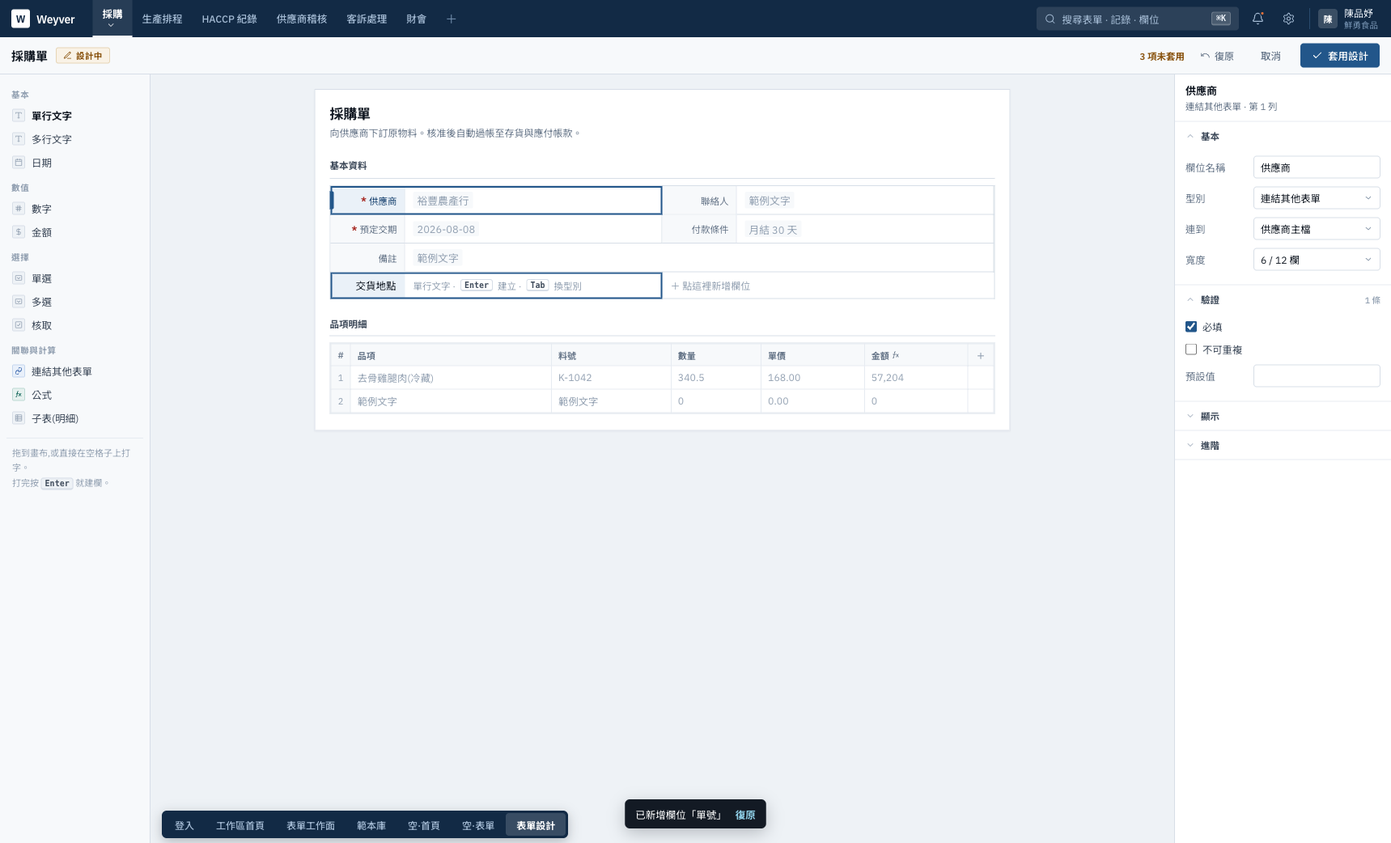
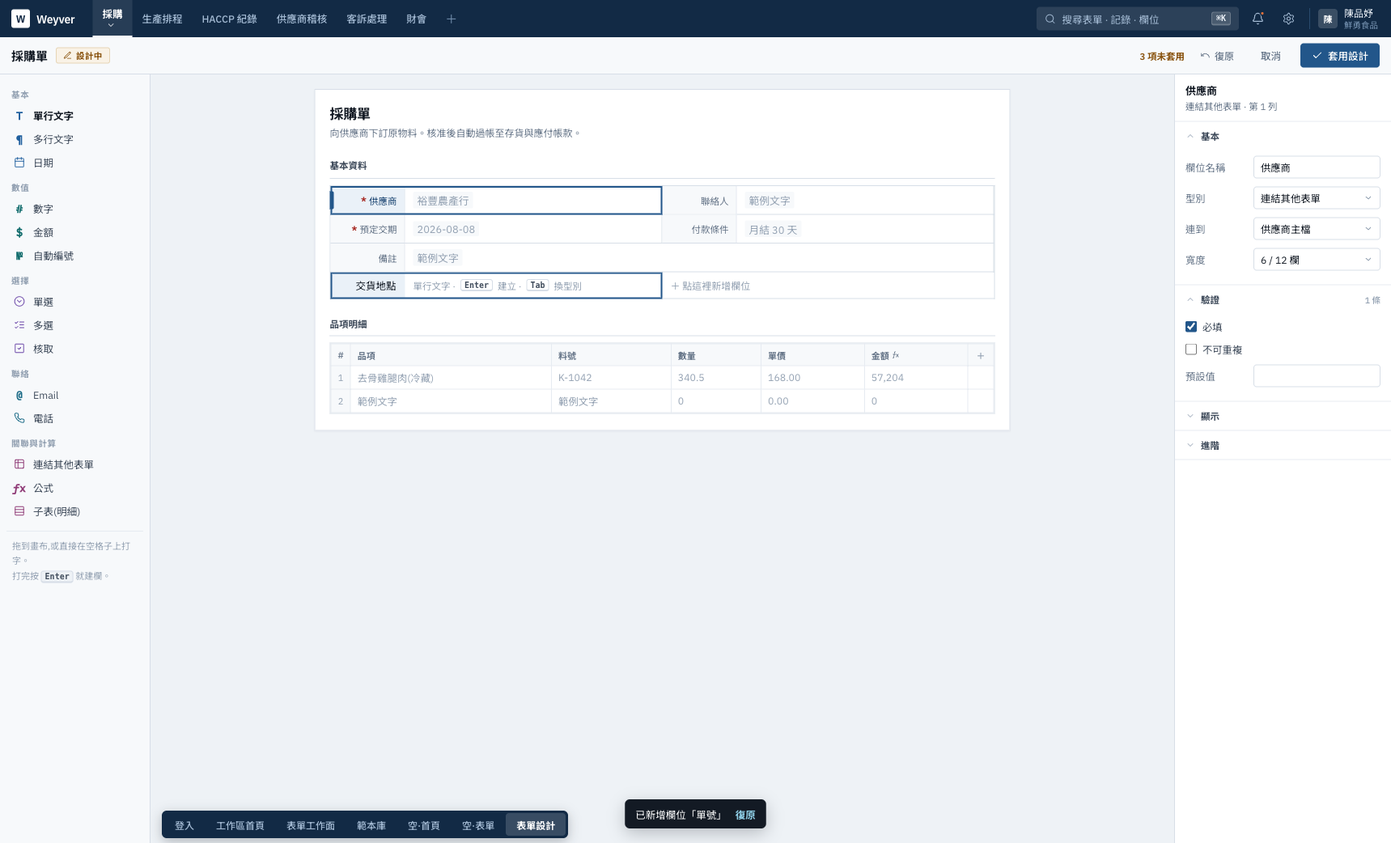
docs(design): 型別圖示定案 E = B+D 混合,並實測剔除不可讀的字符
決策方選 B+D 混合。對照頁加第五欄 E 並標為選定案,設計器面板已套用。

**E 的關鍵不是「混用」,是讓混用不再是混用**:
有天然字符的用字符、其餘用象形,**但兩者都吃分組色、同尺寸**。
D 單獨看是「兩套系統混用」(§3.3 的舊感來源),
而一旦共用同一組分組色與同一個字級,**它就不是兩套系統,是同一套系統的兩種字身** ——
就像一份排版裡同時有數字與文字,沒有人會說那是混用。

🔴 **字符化有前提條件,而且是實測出來的**:
字體要有那個字符,**而且小尺寸下要可讀**。
`№`(自動編號)在 13.5px 的 IBM Plex Mono 下**糊成一塊不可讀** ——
截圖放大 2.6 倍才看見,肉眼在原尺寸只覺得「怪」。
已改回象形 list-ordered(語意上也更貼切:自動編號 = 有序序列)。
最終字符 6 個:T ¶ # $ @ ƒx。

→ 這條補進「字符化」的判準:**不是「有這個字符」就好,是「有 且 小尺寸可讀」**。
   而驗證方式只有一個 —— 在真實尺寸渲染出來,放大截圖看。

Changed region(s): [[0.0, 0.2457, 0.0925, 0.6142], [0.0, 0.1228, 0.0617, 0.215], [0.0, 0.6449, 0.0925, 0.7063]]

diff --git a/docs/mockups/_icon-compare.html b/docs/mockups/_icon-compare.html
@@ -2,11 +2,11 @@
 <html lang="zh-Hant-TW">
 <head>
 <meta charset="UTF-8">
-<title>Weyver · 型別圖示四案對照</title>
+<title>Weyver · 型別圖示五案對照</title>
 <link href="https://fonts.googleapis.com/css2?family=IBM+Plex+Sans:wght@400;500;600;700&family=IBM+Plex+Sans+TC:wght@400;500;600;700&family=IBM+Plex+Mono:wght@500;600&display=swap" rel="stylesheet">
 <style>
 /* ══════════════════════════════════════════════════════════════════════════
-   型別圖示四案對照(2026-08-08)
+   型別圖示五案對照(2026-08-08)
 
    起因:決策方問「表單設計的 icon 有沒有豐富視覺、色彩的元件庫」。
 
@@ -31,7 +31,9 @@
    C Duotone     描邊 + 同色低透明填底。⚠ **這是用 Lucide 模擬 Phosphor 的 duotone
                  「技法」,不是真的 Phosphor 字形** —— Phosphor 未安裝,不為了對照加相依。
                  真要採用得換掉整套 1500+ 圖示。
-   D 字符化      有現成字符的用字符(T ¶ # $ № @ ƒx),沒有的才用象形。
+   D 字符化      有現成字符的用字符(T ¶ # $ @ ƒx),沒有的才用象形。
+                 ⚠ **`№` 實測在 13.5px 下糊成一塊不可讀,已剔除** ——
+                 字符化的前提是「字體有 **且** 小尺寸可讀」,不是「有這個字符」就好。
                  🔴 **這是今天研究本身冒出來的**:NocoDB 實測就是字符與象形混用,
                  而字符在小尺寸比象形清楚得多。
    ══════════════════════════════════════════════════════════════════════════ */
@@ -57,7 +59,14 @@ td{padding:5px 10px;border-bottom:1px solid var(--line-2);}
 tr.gh td{background:var(--paper-2);font-size:10.5px;font-weight:700;letter-spacing:.06em;
   color:var(--ink-4);text-transform:uppercase;padding:7px 10px;}
 td.lb{font-size:12.5px;color:var(--ink-2);width:150px;}
-th:not(:first-child),td:not(.lb){width:110px;}
+th:not(:first-child),td:not(.lb){width:96px;}
+/* 選定案標出來 —— 對照表最後要能一眼看到「所以是哪一個」 */
+th.pick,td.pick{background:#f4f9ff;}
+th.pick{border-bottom:2px solid var(--brand);}
+.ctx .p.pick{border-color:var(--brand);box-shadow:inset 0 2px 0 var(--brand);}
+.ctx .p.pick .t{background:var(--brand-t);color:var(--brand);}
+/* E:字符與象形**同尺寸同色**,才叫同一套系統的兩種字身 */
+.ic.e.gl{font-family:'IBM Plex Mono',monospace;font-size:13.5px;font-weight:600;}
 
 /* 全部渲染在 **14px**,這是設計器面板裡的真實尺寸 —— 對照必須在真實尺寸下看,
    放大看每一案都好看,那不是對照是自我安慰。 */
@@ -72,7 +81,7 @@ th:not(:first-child),td:not(.lb){width:110px;}
 .ic.gl.px{color:var(--ink-4);}
 
 /* 真實脈絡:放進面板列裡看,不是看色票 */
-.ctx{margin-top:26px;display:grid;grid-template-columns:repeat(4,1fr);gap:12px;}
+.ctx{margin-top:26px;display:grid;grid-template-columns:repeat(5,1fr);gap:10px;}
 .ctx .p{border:1px solid var(--line);background:var(--paper);}
 .ctx .p .t{padding:7px 10px;border-bottom:1px solid var(--line-2);background:var(--paper-2);
   font-size:11px;font-weight:700;color:var(--ink-2);}
@@ -89,7 +98,7 @@ th:not(:first-child),td:not(.lb){width:110px;}
 </head>
 <body>
 <div class="wrap">
-  <h1>型別圖示 · 四案對照</h1>
+  <h1>型別圖示 · 五案對照</h1>
   <div class="lead">
     全部渲染在 <b>14px</b> —— 這是設計器面板裡的真實尺寸。
     <b>對照必須在真實尺寸下看</b>,放大看每一案都好看,那不是對照是自我安慰。<br>
@@ -103,15 +112,17 @@ th:not(:first-child),td:not(.lb){width:110px;}
       <th>B 分組上色<small>依型別分組給色,不是每個一色</small></th>
       <th>C Duotone<small>⚠ 用 Lucide 模擬技法,非真 Phosphor</small></th>
       <th>D 字符化<small>有字符用字符,沒有才用象形</small></th>
+      <th class="pick">E · B+D 混合<small>🔴 決策方選定。字符與象形<b>都吃分組色</b></small></th>
     </tr></thead>
     <tbody>
-<tr class="gh"><td colspan="5">基本</td></tr>
+<tr class="gh"><td colspan="6">基本</td></tr>
 <tr>
       <td class="lb">單行文字</td>
       <td><span class="ic a"><svg viewBox="0 0 24 24" fill="none" stroke="currentColor" stroke-width="2" stroke-linecap="round" stroke-linejoin="round"><polyline points="4 7 4 4 20 4 20 7"/><line x1="9" x2="15" y1="20" y2="20"/><line x1="12" x2="12" y1="4" y2="20"/></svg></span></td>
       <td><span class="ic b" style="color:var(--c1)"><svg viewBox="0 0 24 24" fill="none" stroke="currentColor" stroke-width="2" stroke-linecap="round" stroke-linejoin="round"><polyline points="4 7 4 4 20 4 20 7"/><line x1="9" x2="15" y1="20" y2="20"/><line x1="12" x2="12" y1="4" y2="20"/></svg></span></td>
       <td><span class="ic c" style="--tc:var(--c1)"><span class="duo"></span><svg viewBox="0 0 24 24" fill="none" stroke="currentColor" stroke-width="2" stroke-linecap="round" stroke-linejoin="round"><polyline points="4 7 4 4 20 4 20 7"/><line x1="9" x2="15" y1="20" y2="20"/><line x1="12" x2="12" y1="4" y2="20"/></svg></span></td>
       <td><span class="ic gl">T</span></td>
+      <td class="pick"><span class="ic e gl" style="color:var(--c1)">T</span></td>
     </tr>
 <tr>
       <td class="lb">多行文字</td>
@@ -119,6 +130,7 @@ th:not(:first-child),td:not(.lb){width:110px;}
       <td><span class="ic b" style="color:var(--c1)"><svg viewBox="0 0 24 24" fill="none" stroke="currentColor" stroke-width="2" stroke-linecap="round" stroke-linejoin="round"><path d="M15 12H3"/><path d="M17 18H3"/><path d="M21 6H3"/></svg></span></td>
       <td><span class="ic c" style="--tc:var(--c1)"><span class="duo"></span><svg viewBox="0 0 24 24" fill="none" stroke="currentColor" stroke-width="2" stroke-linecap="round" stroke-linejoin="round"><path d="M15 12H3"/><path d="M17 18H3"/><path d="M21 6H3"/></svg></span></td>
       <td><span class="ic gl">¶</span></td>
+      <td class="pick"><span class="ic e gl" style="color:var(--c1)">¶</span></td>
     </tr>
 <tr>
       <td class="lb">日期</td>
@@ -126,6 +138,7 @@ th:not(:first-child),td:not(.lb){width:110px;}
       <td><span class="ic b" style="color:var(--c1)"><svg viewBox="0 0 24 24" fill="none" stroke="currentColor" stroke-width="2" stroke-linecap="round" stroke-linejoin="round"><path d="M8 2v4"/><path d="M16 2v4"/><rect width="18" height="18" x="3" y="4" rx="2"/><path d="M3 10h18"/></svg></span></td>
       <td><span class="ic c" style="--tc:var(--c1)"><span class="duo"></span><svg viewBox="0 0 24 24" fill="none" stroke="currentColor" stroke-width="2" stroke-linecap="round" stroke-linejoin="round"><path d="M8 2v4"/><path d="M16 2v4"/><rect width="18" height="18" x="3" y="4" rx="2"/><path d="M3 10h18"/></svg></span></td>
       <td><span class="ic gl px"><svg viewBox="0 0 24 24" fill="none" stroke="currentColor" stroke-width="2" stroke-linecap="round" stroke-linejoin="round"><path d="M8 2v4"/><path d="M16 2v4"/><rect width="18" height="18" x="3" y="4" rx="2"/><path d="M3 10h18"/></svg></span></td>
+      <td class="pick"><span class="ic e" style="color:var(--c1)"><svg viewBox="0 0 24 24" fill="none" stroke="currentColor" stroke-width="2" stroke-linecap="round" stroke-linejoin="round"><path d="M8 2v4"/><path d="M16 2v4"/><rect width="18" height="18" x="3" y="4" rx="2"/><path d="M3 10h18"/></svg></span></td>
     </tr>
 <tr>
       <td class="lb">日期時間</td>
@@ -133,14 +146,16 @@ th:not(:first-child),td:not(.lb){width:110px;}
       <td><span class="ic b" style="color:var(--c1)"><svg viewBox="0 0 24 24" fill="none" stroke="currentColor" stroke-width="2" stroke-linecap="round" stroke-linejoin="round"><path d="M21 7.5V6a2 2 0 0 0-2-2H5a2 2 0 0 0-2 2v14a2 2 0 0 0 2 2h3.5"/><path d="M16 2v4"/><path d="M8 2v4"/><path d="M3 10h5"/><path d="M17.5 17.5 16 16.3V14"/><circle cx="16" cy="16" r="6"/></svg></span></td>
       <td><span class="ic c" style="--tc:var(--c1)"><span class="duo"></span><svg viewBox="0 0 24 24" fill="none" stroke="currentColor" stroke-width="2" stroke-linecap="round" stroke-linejoin="round"><path d="M21 7.5V6a2 2 0 0 0-2-2H5a2 2 0 0 0-2 2v14a2 2 0 0 0 2 2h3.5"/><path d="M16 2v4"/><path d="M8 2v4"/><path d="M3 10h5"/><path d="M17.5 17.5 16 16.3V14"/><circle cx="16" cy="16" r="6"/></svg></span></td>
       <td><span class="ic gl px"><svg viewBox="0 0 24 24" fill="none" stroke="currentColor" stroke-width="2" stroke-linecap="round" stroke-linejoin="round"><path d="M21 7.5V6a2 2 0 0 0-2-2H5a2 2 0 0 0-2 2v14a2 2 0 0 0 2 2h3.5"/><path d="M16 2v4"/><path d="M8 2v4"/><path d="M3 10h5"/><path d="M17.5 17.5 16 16.3V14"/><circle cx="16" cy="16" r="6"/></svg></span></td>
+      <td class="pick"><span class="ic e" style="color:var(--c1)"><svg viewBox="0 0 24 24" fill="none" stroke="currentColor" stroke-width="2" stroke-linecap="round" stroke-linejoin="round"><path d="M21 7.5V6a2 2 0 0 0-2-2H5a2 2 0 0 0-2 2v14a2 2 0 0 0 2 2h3.5"/><path d="M16 2v4"/><path d="M8 2v4"/><path d="M3 10h5"/><path d="M17.5 17.5 16 16.3V14"/><circle cx="16" cy="16" r="6"/></svg></span></td>
     </tr>
-<tr class="gh"><td colspan="5">數值</td></tr>
+<tr class="gh"><td colspan="6">數值</td></tr>
 <tr>
       <td class="lb">數字</td>
       <td><span class="ic a"><svg viewBox="0 0 24 24" fill="none" stroke="currentColor" stroke-width="2" stroke-linecap="round" stroke-linejoin="round"><line x1="4" x2="20" y1="9" y2="9"/><line x1="4" x2="20" y1="15" y2="15"/><line x1="10" x2="8" y1="3" y2="21"/><line x1="16" x2="14" y1="3" y2="21"/></svg></span></td>
       <td><span class="ic b" style="color:var(--c5)"><svg viewBox="0 0 24 24" fill="none" stroke="currentColor" stroke-width="2" stroke-linecap="round" stroke-linejoin="round"><line x1="4" x2="20" y1="9" y2="9"/><line x1="4" x2="20" y1="15" y2="15"/><line x1="10" x2="8" y1="3" y2="21"/><line x1="16" x2="14" y1="3" y2="21"/></svg></span></td>
       <td><span class="ic c" style="--tc:var(--c5)"><span class="duo"></span><svg viewBox="0 0 24 24" fill="none" stroke="currentColor" stroke-width="2" stroke-linecap="round" stroke-linejoin="round"><line x1="4" x2="20" y1="9" y2="9"/><line x1="4" x2="20" y1="15" y2="15"/><line x1="10" x2="8" y1="3" y2="21"/><line x1="16" x2="14" y1="3" y2="21"/></svg></span></td>
       <td><span class="ic gl">#</span></td>
+      <td class="pick"><span class="ic e gl" style="color:var(--c5)">#</span></td>
     </tr>
 <tr>
       <td class="lb">金額</td>
@@ -148,21 +163,24 @@ th:not(:first-child),td:not(.lb){width:110px;}
       <td><span class="ic b" style="color:var(--c5)"><svg viewBox="0 0 24 24" fill="none" stroke="currentColor" stroke-width="2" stroke-linecap="round" stroke-linejoin="round"><line x1="12" x2="12" y1="2" y2="22"/><path d="M17 5H9.5a3.5 3.5 0 0 0 0 7h5a3.5 3.5 0 0 1 0 7H6"/></svg></span></td>
       <td><span class="ic c" style="--tc:var(--c5)"><span class="duo"></span><svg viewBox="0 0 24 24" fill="none" stroke="currentColor" stroke-width="2" stroke-linecap="round" stroke-linejoin="round"><line x1="12" x2="12" y1="2" y2="22"/><path d="M17 5H9.5a3.5 3.5 0 0 0 0 7h5a3.5 3.5 0 0 1 0 7H6"/></svg></span></td>
       <td><span class="ic gl">$</span></td>
+      <td class="pick"><span class="ic e gl" style="color:var(--c5)">$</span></td>
     </tr>
 <tr>
       <td class="lb">自動編號</td>
       <td><span class="ic a"><svg viewBox="0 0 24 24" fill="none" stroke="currentColor" stroke-width="2" stroke-linecap="round" stroke-linejoin="round"><rect x="14" y="14" width="4" height="6" rx="2"/><rect x="6" y="4" width="4" height="6" rx="2"/><path d="M6 20h4"/><path d="M14 10h4"/><path d="M6 14h2v6"/><path d="M14 4h2v6"/></svg></span></td>
       <td><span class="ic b" style="color:var(--c5)"><svg viewBox="0 0 24 24" fill="none" stroke="currentColor" stroke-width="2" stroke-linecap="round" stroke-linejoin="round"><rect x="14" y="14" width="4" height="6" rx="2"/><rect x="6" y="4" width="4" height="6" rx="2"/><path d="M6 20h4"/><path d="M14 10h4"/><path d="M6 14h2v6"/><path d="M14 4h2v6"/></svg></span></td>
       <td><span class="ic c" style="--tc:var(--c5)"><span class="duo"></span><svg viewBox="0 0 24 24" fill="none" stroke="currentColor" stroke-width="2" stroke-linecap="round" stroke-linejoin="round"><rect x="14" y="14" width="4" height="6" rx="2"/><rect x="6" y="4" width="4" height="6" rx="2"/><path d="M6 20h4"/><path d="M14 10h4"/><path d="M6 14h2v6"/><path d="M14 4h2v6"/></svg></span></td>
-      <td><span class="ic gl">№</span></td>
+      <td><span class="ic gl px"><svg viewBox="0 0 24 24" fill="none" stroke="currentColor" stroke-width="2" stroke-linecap="round" stroke-linejoin="round"><path d="M10 12h11"/><path d="M10 18h11"/><path d="M10 6h11"/><path d="M4 10h2"/><path d="M4 6h1v4"/><path d="M6 18H4c0-1 2-2 2-3s-1-1.5-2-1"/></svg></span></td>
+      <td class="pick"><span class="ic e" style="color:var(--c5)"><svg viewBox="0 0 24 24" fill="none" stroke="currentColor" stroke-width="2" stroke-linecap="round" stroke-linejoin="round"><path d="M10 12h11"/><path d="M10 18h11"/><path d="M10 6h11"/><path d="M4 10h2"/><path d="M4 6h1v4"/><path d="M6 18H4c0-1 2-2 2-3s-1-1.5-2-1"/></svg></span></td>
     </tr>
-<tr class="gh"><td colspan="5">選擇</td></tr>
+<tr class="gh"><td colspan="6">選擇</td></tr>
 <tr>
       <td class="lb">單選</td>
       <td><span class="ic a"><svg viewBox="0 0 24 24" fill="none" stroke="currentColor" stroke-width="2" stroke-linecap="round" stroke-linejoin="round"><circle cx="12" cy="12" r="10"/><path d="m16 10-4 4-4-4"/></svg></span></td>
       <td><span class="ic b" style="color:var(--c3)"><svg viewBox="0 0 24 24" fill="none" stroke="currentColor" stroke-width="2" stroke-linecap="round" stroke-linejoin="round"><circle cx="12" cy="12" r="10"/><path d="m16 10-4 4-4-4"/></svg></span></td>
       <td><span class="ic c" style="--tc:var(--c3)"><span class="duo"></span><svg viewBox="0 0 24 24" fill="none" stroke="currentColor" stroke-width="2" stroke-linecap="round" stroke-linejoin="round"><circle cx="12" cy="12" r="10"/><path d="m16 10-4 4-4-4"/></svg></span></td>
       <td><span class="ic gl px"><svg viewBox="0 0 24 24" fill="none" stroke="currentColor" stroke-width="2" stroke-linecap="round" stroke-linejoin="round"><circle cx="12" cy="12" r="10"/><path d="m16 10-4 4-4-4"/></svg></span></td>
+      <td class="pick"><span class="ic e" style="color:var(--c3)"><svg viewBox="0 0 24 24" fill="none" stroke="currentColor" stroke-width="2" stroke-linecap="round" stroke-linejoin="round"><circle cx="12" cy="12" r="10"/><path d="m16 10-4 4-4-4"/></svg></span></td>
     </tr>
 <tr>
       <td class="lb">多選</td>
@@ -170,6 +188,7 @@ th:not(:first-child),td:not(.lb){width:110px;}
       <td><span class="ic b" style="color:var(--c3)"><svg viewBox="0 0 24 24" fill="none" stroke="currentColor" stroke-width="2" stroke-linecap="round" stroke-linejoin="round"><path d="m3 17 2 2 4-4"/><path d="m3 7 2 2 4-4"/><path d="M13 6h8"/><path d="M13 12h8"/><path d="M13 18h8"/></svg></span></td>
       <td><span class="ic c" style="--tc:var(--c3)"><span class="duo"></span><svg viewBox="0 0 24 24" fill="none" stroke="currentColor" stroke-width="2" stroke-linecap="round" stroke-linejoin="round"><path d="m3 17 2 2 4-4"/><path d="m3 7 2 2 4-4"/><path d="M13 6h8"/><path d="M13 12h8"/><path d="M13 18h8"/></svg></span></td>
       <td><span class="ic gl px"><svg viewBox="0 0 24 24" fill="none" stroke="currentColor" stroke-width="2" stroke-linecap="round" stroke-linejoin="round"><path d="m3 17 2 2 4-4"/><path d="m3 7 2 2 4-4"/><path d="M13 6h8"/><path d="M13 12h8"/><path d="M13 18h8"/></svg></span></td>
+      <td class="pick"><span class="ic e" style="color:var(--c3)"><svg viewBox="0 0 24 24" fill="none" stroke="currentColor" stroke-width="2" stroke-linecap="round" stroke-linejoin="round"><path d="m3 17 2 2 4-4"/><path d="m3 7 2 2 4-4"/><path d="M13 6h8"/><path d="M13 12h8"/><path d="M13 18h8"/></svg></span></td>
     </tr>
 <tr>
       <td class="lb">核取</td>
@@ -177,14 +196,16 @@ th:not(:first-child),td:not(.lb){width:110px;}
       <td><span class="ic b" style="color:var(--c3)"><svg viewBox="0 0 24 24" fill="none" stroke="currentColor" stroke-width="2" stroke-linecap="round" stroke-linejoin="round"><rect width="18" height="18" x="3" y="3" rx="2"/><path d="m9 12 2 2 4-4"/></svg></span></td>
       <td><span class="ic c" style="--tc:var(--c3)"><span class="duo"></span><svg viewBox="0 0 24 24" fill="none" stroke="currentColor" stroke-width="2" stroke-linecap="round" stroke-linejoin="round"><rect width="18" height="18" x="3" y="3" rx="2"/><path d="m9 12 2 2 4-4"/></svg></span></td>
       <td><span class="ic gl px"><svg viewBox="0 0 24 24" fill="none" stroke="currentColor" stroke-width="2" stroke-linecap="round" stroke-linejoin="round"><rect width="18" height="18" x="3" y="3" rx="2"/><path d="m9 12 2 2 4-4"/></svg></span></td>
+      <td class="pick"><span class="ic e" style="color:var(--c3)"><svg viewBox="0 0 24 24" fill="none" stroke="currentColor" stroke-width="2" stroke-linecap="round" stroke-linejoin="round"><rect width="18" height="18" x="3" y="3" rx="2"/><path d="m9 12 2 2 4-4"/></svg></span></td>
     </tr>
-<tr class="gh"><td colspan="5">聯絡</td></tr>
+<tr class="gh"><td colspan="6">聯絡</td></tr>
 <tr>
       <td class="lb">電話</td>
       <td><span class="ic a"><svg viewBox="0 0 24 24" fill="none" stroke="currentColor" stroke-width="2" stroke-linecap="round" stroke-linejoin="round"><path d="M22 16.92v3a2 2 0 0 1-2.18 2 19.79 19.79 0 0 1-8.63-3.07 19.5 19.5 0 0 1-6-6 19.79 19.79 0 0 1-3.07-8.67A2 2 0 0 1 4.11 2h3a2 2 0 0 1 2 1.72 12.84 12.84 0 0 0 .7 2.81 2 2 0 0 1-.45 2.11L8.09 9.91a16 16 0 0 0 6 6l1.27-1.27a2 2 0 0 1 2.11-.45 12.84 12.84 0 0 0 2.81.7A2 2 0 0 1 22 16.92z"/></svg></span></td>
       <td><span class="ic b" style="color:var(--c6)"><svg viewBox="0 0 24 24" fill="none" stroke="currentColor" stroke-width="2" stroke-linecap="round" stroke-linejoin="round"><path d="M22 16.92v3a2 2 0 0 1-2.18 2 19.79 19.79 0 0 1-8.63-3.07 19.5 19.5 0 0 1-6-6 19.79 19.79 0 0 1-3.07-8.67A2 2 0 0 1 4.11 2h3a2 2 0 0 1 2 1.72 12.84 12.84 0 0 0 .7 2.81 2 2 0 0 1-.45 2.11L8.09 9.91a16 16 0 0 0 6 6l1.27-1.27a2 2 0 0 1 2.11-.45 12.84 12.84 0 0 0 2.81.7A2 2 0 0 1 22 16.92z"/></svg></span></td>
       <td><span class="ic c" style="--tc:var(--c6)"><span class="duo"></span><svg viewBox="0 0 24 24" fill="none" stroke="currentColor" stroke-width="2" stroke-linecap="round" stroke-linejoin="round"><path d="M22 16.92v3a2 2 0 0 1-2.18 2 19.79 19.79 0 0 1-8.63-3.07 19.5 19.5 0 0 1-6-6 19.79 19.79 0 0 1-3.07-8.67A2 2 0 0 1 4.11 2h3a2 2 0 0 1 2 1.72 12.84 12.84 0 0 0 .7 2.81 2 2 0 0 1-.45 2.11L8.09 9.91a16 16 0 0 0 6 6l1.27-1.27a2 2 0 0 1 2.11-.45 12.84 12.84 0 0 0 2.81.7A2 2 0 0 1 22 16.92z"/></svg></span></td>
       <td><span class="ic gl px"><svg viewBox="0 0 24 24" fill="none" stroke="currentColor" stroke-width="2" stroke-linecap="round" stroke-linejoin="round"><path d="M22 16.92v3a2 2 0 0 1-2.18 2 19.79 19.79 0 0 1-8.63-3.07 19.5 19.5 0 0 1-6-6 19.79 19.79 0 0 1-3.07-8.67A2 2 0 0 1 4.11 2h3a2 2 0 0 1 2 1.72 12.84 12.84 0 0 0 .7 2.81 2 2 0 0 1-.45 2.11L8.09 9.91a16 16 0 0 0 6 6l1.27-1.27a2 2 0 0 1 2.11-.45 12.84 12.84 0 0 0 2.81.7A2 2 0 0 1 22 16.92z"/></svg></span></td>
+      <td class="pick"><span class="ic e" style="color:var(--c6)"><svg viewBox="0 0 24 24" fill="none" stroke="currentColor" stroke-width="2" stroke-linecap="round" stroke-linejoin="round"><path d="M22 16.92v3a2 2 0 0 1-2.18 2 19.79 19.79 0 0 1-8.63-3.07 19.5 19.5 0 0 1-6-6 19.79 19.79 0 0 1-3.07-8.67A2 2 0 0 1 4.11 2h3a2 2 0 0 1 2 1.72 12.84 12.84 0 0 0 .7 2.81 2 2 0 0 1-.45 2.11L8.09 9.91a16 16 0 0 0 6 6l1.27-1.27a2 2 0 0 1 2.11-.45 12.84 12.84 0 0 0 2.81.7A2 2 0 0 1 22 16.92z"/></svg></span></td>
     </tr>
 <tr>
       <td class="lb">Email</td>
@@ -192,6 +213,7 @@ th:not(:first-child),td:not(.lb){width:110px;}
       <td><span class="ic b" style="color:var(--c6)"><svg viewBox="0 0 24 24" fill="none" stroke="currentColor" stroke-width="2" stroke-linecap="round" stroke-linejoin="round"><rect width="20" height="16" x="2" y="4" rx="2"/><path d="m22 7-8.97 5.7a1.94 1.94 0 0 1-2.06 0L2 7"/></svg></span></td>
       <td><span class="ic c" style="--tc:var(--c6)"><span class="duo"></span><svg viewBox="0 0 24 24" fill="none" stroke="currentColor" stroke-width="2" stroke-linecap="round" stroke-linejoin="round"><rect width="20" height="16" x="2" y="4" rx="2"/><path d="m22 7-8.97 5.7a1.94 1.94 0 0 1-2.06 0L2 7"/></svg></span></td>
       <td><span class="ic gl">@</span></td>
+      <td class="pick"><span class="ic e gl" style="color:var(--c6)">@</span></td>
     </tr>
 <tr>
       <td class="lb">網址</td>
@@ -199,14 +221,16 @@ th:not(:first-child),td:not(.lb){width:110px;}
       <td><span class="ic b" style="color:var(--c6)"><svg viewBox="0 0 24 24" fill="none" stroke="currentColor" stroke-width="2" stroke-linecap="round" stroke-linejoin="round"><path d="M10 13a5 5 0 0 0 7.54.54l3-3a5 5 0 0 0-7.07-7.07l-1.72 1.71"/><path d="M14 11a5 5 0 0 0-7.54-.54l-3 3a5 5 0 0 0 7.07 7.07l1.71-1.71"/></svg></span></td>
       <td><span class="ic c" style="--tc:var(--c6)"><span class="duo"></span><svg viewBox="0 0 24 24" fill="none" stroke="currentColor" stroke-width="2" stroke-linecap="round" stroke-linejoin="round"><path d="M10 13a5 5 0 0 0 7.54.54l3-3a5 5 0 0 0-7.07-7.07l-1.72 1.71"/><path d="M14 11a5 5 0 0 0-7.54-.54l-3 3a5 5 0 0 0 7.07 7.07l1.71-1.71"/></svg></span></td>
       <td><span class="ic gl px"><svg viewBox="0 0 24 24" fill="none" stroke="currentColor" stroke-width="2" stroke-linecap="round" stroke-linejoin="round"><path d="M10 13a5 5 0 0 0 7.54.54l3-3a5 5 0 0 0-7.07-7.07l-1.72 1.71"/><path d="M14 11a5 5 0 0 0-7.54-.54l-3 3a5 5 0 0 0 7.07 7.07l1.71-1.71"/></svg></span></td>
+      <td class="pick"><span class="ic e" style="color:var(--c6)"><svg viewBox="0 0 24 24" fill="none" stroke="currentColor" stroke-width="2" stroke-linecap="round" stroke-linejoin="round"><path d="M10 13a5 5 0 0 0 7.54.54l3-3a5 5 0 0 0-7.07-7.07l-1.72 1.71"/><path d="M14 11a5 5 0 0 0-7.54-.54l-3 3a5 5 0 0 0 7.07 7.07l1.71-1.71"/></svg></span></td>
     </tr>
-<tr class="gh"><td colspan="5">關聯與計算</td></tr>
+<tr class="gh"><td colspan="6">關聯與計算</td></tr>
 <tr>
       <td class="lb">連結其他表單</td>
       <td><span class="ic a"><svg viewBox="0 0 24 24" fill="none" stroke="currentColor" stroke-width="2" stroke-linecap="round" stroke-linejoin="round"><path d="M9 3H5a2 2 0 0 0-2 2v4m6-6h10a2 2 0 0 1 2 2v4M9 3v18m0 0h10a2 2 0 0 0 2-2V9M9 21H5a2 2 0 0 1-2-2V9m0 0h18"/></svg></span></td>
       <td><span class="ic b" style="color:var(--c4)"><svg viewBox="0 0 24 24" fill="none" stroke="currentColor" stroke-width="2" stroke-linecap="round" stroke-linejoin="round"><path d="M9 3H5a2 2 0 0 0-2 2v4m6-6h10a2 2 0 0 1 2 2v4M9 3v18m0 0h10a2 2 0 0 0 2-2V9M9 21H5a2 2 0 0 1-2-2V9m0 0h18"/></svg></span></td>
       <td><span class="ic c" style="--tc:var(--c4)"><span class="duo"></span><svg viewBox="0 0 24 24" fill="none" stroke="currentColor" stroke-width="2" stroke-linecap="round" stroke-linejoin="round"><path d="M9 3H5a2 2 0 0 0-2 2v4m6-6h10a2 2 0 0 1 2 2v4M9 3v18m0 0h10a2 2 0 0 0 2-2V9M9 21H5a2 2 0 0 1-2-2V9m0 0h18"/></svg></span></td>
       <td><span class="ic gl px"><svg viewBox="0 0 24 24" fill="none" stroke="currentColor" stroke-width="2" stroke-linecap="round" stroke-linejoin="round"><path d="M9 3H5a2 2 0 0 0-2 2v4m6-6h10a2 2 0 0 1 2 2v4M9 3v18m0 0h10a2 2 0 0 0 2-2V9M9 21H5a2 2 0 0 1-2-2V9m0 0h18"/></svg></span></td>
+      <td class="pick"><span class="ic e" style="color:var(--c4)"><svg viewBox="0 0 24 24" fill="none" stroke="currentColor" stroke-width="2" stroke-linecap="round" stroke-linejoin="round"><path d="M9 3H5a2 2 0 0 0-2 2v4m6-6h10a2 2 0 0 1 2 2v4M9 3v18m0 0h10a2 2 0 0 0 2-2V9M9 21H5a2 2 0 0 1-2-2V9m0 0h18"/></svg></span></td>
     </tr>
 <tr>
       <td class="lb">公式</td>
@@ -214,6 +238,7 @@ th:not(:first-child),td:not(.lb){width:110px;}
       <td><span class="ic b" style="color:var(--c4)"><svg viewBox="0 0 24 24" fill="none" stroke="currentColor" stroke-width="2" stroke-linecap="round" stroke-linejoin="round"><path d="M18 7V5a1 1 0 0 0-1-1H6.5a.5.5 0 0 0-.4.8l4.5 6a2 2 0 0 1 0 2.4l-4.5 6a.5.5 0 0 0 .4.8H17a1 1 0 0 0 1-1v-2"/></svg></span></td>
       <td><span class="ic c" style="--tc:var(--c4)"><span class="duo"></span><svg viewBox="0 0 24 24" fill="none" stroke="currentColor" stroke-width="2" stroke-linecap="round" stroke-linejoin="round"><path d="M18 7V5a1 1 0 0 0-1-1H6.5a.5.5 0 0 0-.4.8l4.5 6a2 2 0 0 1 0 2.4l-4.5 6a.5.5 0 0 0 .4.8H17a1 1 0 0 0 1-1v-2"/></svg></span></td>
       <td><span class="ic gl">ƒx</span></td>
+      <td class="pick"><span class="ic e gl" style="color:var(--c4)">ƒx</span></td>
     </tr>
 <tr>
       <td class="lb">子表(明細)</td>
@@ -221,35 +246,17 @@ th:not(:first-child),td:not(.lb){width:110px;}
       <td><span class="ic b" style="color:var(--c4)"><svg viewBox="0 0 24 24" fill="none" stroke="currentColor" stroke-width="2" stroke-linecap="round" stroke-linejoin="round"><rect width="18" height="18" x="3" y="3" rx="2"/><path d="M21 9H3"/><path d="M21 15H3"/></svg></span></td>
       <td><span class="ic c" style="--tc:var(--c4)"><span class="duo"></span><svg viewBox="0 0 24 24" fill="none" stroke="currentColor" stroke-width="2" stroke-linecap="round" stroke-linejoin="round"><rect width="18" height="18" x="3" y="3" rx="2"/><path d="M21 9H3"/><path d="M21 15H3"/></svg></span></td>
       <td><span class="ic gl px"><svg viewBox="0 0 24 24" fill="none" stroke="currentColor" stroke-width="2" stroke-linecap="round" stroke-linejoin="round"><rect width="18" height="18" x="3" y="3" rx="2"/><path d="M21 9H3"/><path d="M21 15H3"/></svg></span></td>
+      <td class="pick"><span class="ic e" style="color:var(--c4)"><svg viewBox="0 0 24 24" fill="none" stroke="currentColor" stroke-width="2" stroke-linecap="round" stroke-linejoin="round"><rect width="18" height="18" x="3" y="3" rx="2"/><path d="M21 9H3"/><path d="M21 15H3"/></svg></span></td>
     </tr>
     </tbody>
   </table>
 
   <div class="ctx">
-    <div class="p"><div class="t">A 現況</div><div class="b">
-      <div class="pr on"><span class="ic a" style="color:var(--brand)"><svg viewBox="0 0 24 24" fill="none" stroke="currentColor" stroke-width="2" stroke-linecap="round" stroke-linejoin="round"><polyline points="4 7 4 4 20 4 20 7"/><line x1="9" x2="15" y1="20" y2="20"/><line x1="12" x2="12" y1="4" y2="20"/></svg></span>單行文字</div>
-      <div class="pr"><span class="ic a"><svg viewBox="0 0 24 24" fill="none" stroke="currentColor" stroke-width="2" stroke-linecap="round" stroke-linejoin="round"><line x1="12" x2="12" y1="2" y2="22"/><path d="M17 5H9.5a3.5 3.5 0 0 0 0 7h5a3.5 3.5 0 0 1 0 7H6"/></svg></span>金額</div>
-      <div class="pr"><span class="ic a"><svg viewBox="0 0 24 24" fill="none" stroke="currentColor" stroke-width="2" stroke-linecap="round" stroke-linejoin="round"><path d="M9 3H5a2 2 0 0 0-2 2v4m6-6h10a2 2 0 0 1 2 2v4M9 3v18m0 0h10a2 2 0 0 0 2-2V9M9 21H5a2 2 0 0 1-2-2V9m0 0h18"/></svg></span>連結其他表單</div>
-      <div class="pr"><span class="ic a"><svg viewBox="0 0 24 24" fill="none" stroke="currentColor" stroke-width="2" stroke-linecap="round" stroke-linejoin="round"><path d="M18 7V5a1 1 0 0 0-1-1H6.5a.5.5 0 0 0-.4.8l4.5 6a2 2 0 0 1 0 2.4l-4.5 6a.5.5 0 0 0 .4.8H17a1 1 0 0 0 1-1v-2"/></svg></span>公式</div>
-    </div></div>
-    <div class="p"><div class="t">B 分組上色</div><div class="b">
-      <div class="pr on"><span class="ic b" style="color:var(--c1)"><svg viewBox="0 0 24 24" fill="none" stroke="currentColor" stroke-width="2" stroke-linecap="round" stroke-linejoin="round"><polyline points="4 7 4 4 20 4 20 7"/><line x1="9" x2="15" y1="20" y2="20"/><line x1="12" x2="12" y1="4" y2="20"/></svg></span>單行文字</div>
-      <div class="pr"><span class="ic b" style="color:var(--c5)"><svg viewBox="0 0 24 24" fill="none" stroke="currentColor" stroke-width="2" stroke-linecap="round" stroke-linejoin="round"><line x1="12" x2="12" y1="2" y2="22"/><path d="M17 5H9.5a3.5 3.5 0 0 0 0 7h5a3.5 3.5 0 0 1 0 7H6"/></svg></span>金額</div>
-      <div class="pr"><span class="ic b" style="color:var(--c4)"><svg viewBox="0 0 24 24" fill="none" stroke="currentColor" stroke-width="2" stroke-linecap="round" stroke-linejoin="round"><path d="M9 3H5a2 2 0 0 0-2 2v4m6-6h10a2 2 0 0 1 2 2v4M9 3v18m0 0h10a2 2 0 0 0 2-2V9M9 21H5a2 2 0 0 1-2-2V9m0 0h18"/></svg></span>連結其他表單</div>
-      <div class="pr"><span class="ic b" style="color:var(--c4)"><svg viewBox="0 0 24 24" fill="none" stroke="currentColor" stroke-width="2" stroke-linecap="round" stroke-linejoin="round"><path d="M18 7V5a1 1 0 0 0-1-1H6.5a.5.5 0 0 0-.4.8l4.5 6a2 2 0 0 1 0 2.4l-4.5 6a.5.5 0 0 0 .4.8H17a1 1 0 0 0 1-1v-2"/></svg></span>公式</div>
-    </div></div>
-    <div class="p"><div class="t">C Duotone</div><div class="b">
-      <div class="pr on"><span class="ic c" style="--tc:var(--c1)"><span class="duo"></span><svg viewBox="0 0 24 24" fill="none" stroke="currentColor" stroke-width="2" stroke-linecap="round" stroke-linejoin="round"><polyline points="4 7 4 4 20 4 20 7"/><line x1="9" x2="15" y1="20" y2="20"/><line x1="12" x2="12" y1="4" y2="20"/></svg></span>單行文字</div>
-      <div class="pr"><span class="ic c" style="--tc:var(--c5)"><span class="duo"></span><svg viewBox="0 0 24 24" fill="none" stroke="currentColor" stroke-width="2" stroke-linecap="round" stroke-linejoin="round"><line x1="12" x2="12" y1="2" y2="22"/><path d="M17 5H9.5a3.5 3.5 0 0 0 0 7h5a3.5 3.5 0 0 1 0 7H6"/></svg></span>金額</div>
-      <div class="pr"><span class="ic c" style="--tc:var(--c4)"><span class="duo"></span><svg viewBox="0 0 24 24" fill="none" stroke="currentColor" stroke-width="2" stroke-linecap="round" stroke-linejoin="round"><path d="M9 3H5a2 2 0 0 0-2 2v4m6-6h10a2 2 0 0 1 2 2v4M9 3v18m0 0h10a2 2 0 0 0 2-2V9M9 21H5a2 2 0 0 1-2-2V9m0 0h18"/></svg></span>連結其他表單</div>
-      <div class="pr"><span class="ic c" style="--tc:var(--c4)"><span class="duo"></span><svg viewBox="0 0 24 24" fill="none" stroke="currentColor" stroke-width="2" stroke-linecap="round" stroke-linejoin="round"><path d="M18 7V5a1 1 0 0 0-1-1H6.5a.5.5 0 0 0-.4.8l4.5 6a2 2 0 0 1 0 2.4l-4.5 6a.5.5 0 0 0 .4.8H17a1 1 0 0 0 1-1v-2"/></svg></span>公式</div>
-    </div></div>
-    <div class="p"><div class="t">D 字符化</div><div class="b">
-      <div class="pr on"><span class="ic gl" style="color:var(--brand)">T</span>單行文字</div>
-      <div class="pr"><span class="ic gl">$</span>金額</div>
-      <div class="pr"><span class="ic gl px"><svg viewBox="0 0 24 24" fill="none" stroke="currentColor" stroke-width="2" stroke-linecap="round" stroke-linejoin="round"><path d="M9 3H5a2 2 0 0 0-2 2v4m6-6h10a2 2 0 0 1 2 2v4M9 3v18m0 0h10a2 2 0 0 0 2-2V9M9 21H5a2 2 0 0 1-2-2V9m0 0h18"/></svg></span>連結其他表單</div>
-      <div class="pr"><span class="ic gl">ƒx</span>公式</div>
-    </div></div>
+    <div class="p"><div class="t">A 現況</div><div class="b"><div class="pr on"><span class="ic a" style=color:var(--brand)><svg viewBox="0 0 24 24" fill="none" stroke="currentColor" stroke-width="2" stroke-linecap="round" stroke-linejoin="round"><polyline points="4 7 4 4 20 4 20 7"/><line x1="9" x2="15" y1="20" y2="20"/><line x1="12" x2="12" y1="4" y2="20"/></svg></span>單行文字</div><div class="pr"><span class="ic a"><svg viewBox="0 0 24 24" fill="none" stroke="currentColor" stroke-width="2" stroke-linecap="round" stroke-linejoin="round"><line x1="12" x2="12" y1="2" y2="22"/><path d="M17 5H9.5a3.5 3.5 0 0 0 0 7h5a3.5 3.5 0 0 1 0 7H6"/></svg></span>金額</div><div class="pr"><span class="ic a"><svg viewBox="0 0 24 24" fill="none" stroke="currentColor" stroke-width="2" stroke-linecap="round" stroke-linejoin="round"><path d="M9 3H5a2 2 0 0 0-2 2v4m6-6h10a2 2 0 0 1 2 2v4M9 3v18m0 0h10a2 2 0 0 0 2-2V9M9 21H5a2 2 0 0 1-2-2V9m0 0h18"/></svg></span>連結其他表單</div><div class="pr"><span class="ic a"><svg viewBox="0 0 24 24" fill="none" stroke="currentColor" stroke-width="2" stroke-linecap="round" stroke-linejoin="round"><path d="M18 7V5a1 1 0 0 0-1-1H6.5a.5.5 0 0 0-.4.8l4.5 6a2 2 0 0 1 0 2.4l-4.5 6a.5.5 0 0 0 .4.8H17a1 1 0 0 0 1-1v-2"/></svg></span>公式</div></div></div>
+    <div class="p"><div class="t">B 分組上色</div><div class="b"><div class="pr on"><span class="ic b" style="color:var(--c1)"><svg viewBox="0 0 24 24" fill="none" stroke="currentColor" stroke-width="2" stroke-linecap="round" stroke-linejoin="round"><polyline points="4 7 4 4 20 4 20 7"/><line x1="9" x2="15" y1="20" y2="20"/><line x1="12" x2="12" y1="4" y2="20"/></svg></span>單行文字</div><div class="pr"><span class="ic b" style="color:var(--c5)"><svg viewBox="0 0 24 24" fill="none" stroke="currentColor" stroke-width="2" stroke-linecap="round" stroke-linejoin="round"><line x1="12" x2="12" y1="2" y2="22"/><path d="M17 5H9.5a3.5 3.5 0 0 0 0 7h5a3.5 3.5 0 0 1 0 7H6"/></svg></span>金額</div><div class="pr"><span class="ic b" style="color:var(--c4)"><svg viewBox="0 0 24 24" fill="none" stroke="currentColor" stroke-width="2" stroke-linecap="round" stroke-linejoin="round"><path d="M9 3H5a2 2 0 0 0-2 2v4m6-6h10a2 2 0 0 1 2 2v4M9 3v18m0 0h10a2 2 0 0 0 2-2V9M9 21H5a2 2 0 0 1-2-2V9m0 0h18"/></svg></span>連結其他表單</div><div class="pr"><span class="ic b" style="color:var(--c4)"><svg viewBox="0 0 24 24" fill="none" stroke="currentColor" stroke-width="2" stroke-linecap="round" stroke-linejoin="round"><path d="M18 7V5a1 1 0 0 0-1-1H6.5a.5.5 0 0 0-.4.8l4.5 6a2 2 0 0 1 0 2.4l-4.5 6a.5.5 0 0 0 .4.8H17a1 1 0 0 0 1-1v-2"/></svg></span>公式</div></div></div>
+    <div class="p"><div class="t">C Duotone</div><div class="b"><div class="pr on"><span class="ic c" style="--tc:var(--c1)"><span class="duo"></span><svg viewBox="0 0 24 24" fill="none" stroke="currentColor" stroke-width="2" stroke-linecap="round" stroke-linejoin="round"><polyline points="4 7 4 4 20 4 20 7"/><line x1="9" x2="15" y1="20" y2="20"/><line x1="12" x2="12" y1="4" y2="20"/></svg></span>單行文字</div><div class="pr"><span class="ic c" style="--tc:var(--c5)"><span class="duo"></span><svg viewBox="0 0 24 24" fill="none" stroke="currentColor" stroke-width="2" stroke-linecap="round" stroke-linejoin="round"><line x1="12" x2="12" y1="2" y2="22"/><path d="M17 5H9.5a3.5 3.5 0 0 0 0 7h5a3.5 3.5 0 0 1 0 7H6"/></svg></span>金額</div><div class="pr"><span class="ic c" style="--tc:var(--c4)"><span class="duo"></span><svg viewBox="0 0 24 24" fill="none" stroke="currentColor" stroke-width="2" stroke-linecap="round" stroke-linejoin="round"><path d="M9 3H5a2 2 0 0 0-2 2v4m6-6h10a2 2 0 0 1 2 2v4M9 3v18m0 0h10a2 2 0 0 0 2-2V9M9 21H5a2 2 0 0 1-2-2V9m0 0h18"/></svg></span>連結其他表單</div><div class="pr"><span class="ic c" style="--tc:var(--c4)"><span class="duo"></span><svg viewBox="0 0 24 24" fill="none" stroke="currentColor" stroke-width="2" stroke-linecap="round" stroke-linejoin="round"><path d="M18 7V5a1 1 0 0 0-1-1H6.5a.5.5 0 0 0-.4.8l4.5 6a2 2 0 0 1 0 2.4l-4.5 6a.5.5 0 0 0 .4.8H17a1 1 0 0 0 1-1v-2"/></svg></span>公式</div></div></div>
+    <div class="p"><div class="t">D 字符化</div><div class="b"><div class="pr on"><span class="ic gl">T</span>單行文字</div><div class="pr"><span class="ic gl">$</span>金額</div><div class="pr"><span class="ic gl px"><svg viewBox="0 0 24 24" fill="none" stroke="currentColor" stroke-width="2" stroke-linecap="round" stroke-linejoin="round"><path d="M9 3H5a2 2 0 0 0-2 2v4m6-6h10a2 2 0 0 1 2 2v4M9 3v18m0 0h10a2 2 0 0 0 2-2V9M9 21H5a2 2 0 0 1-2-2V9m0 0h18"/></svg></span>連結其他表單</div><div class="pr"><span class="ic gl">ƒx</span>公式</div></div></div>
+    <div class="p pick"><div class="t">E · B+D 混合</div><div class="b"><div class="pr on"><span class="ic e gl" style="color:var(--c1)">T</span>單行文字</div><div class="pr"><span class="ic e gl" style="color:var(--c5)">$</span>金額</div><div class="pr"><span class="ic e" style="color:var(--c4)"><svg viewBox="0 0 24 24" fill="none" stroke="currentColor" stroke-width="2" stroke-linecap="round" stroke-linejoin="round"><path d="M9 3H5a2 2 0 0 0-2 2v4m6-6h10a2 2 0 0 1 2 2v4M9 3v18m0 0h10a2 2 0 0 0 2-2V9M9 21H5a2 2 0 0 1-2-2V9m0 0h18"/></svg></span>連結其他表單</div><div class="pr"><span class="ic e gl" style="color:var(--c4)">ƒx</span>公式</div></div></div>
   </div>
 
   <div class="note">
@@ -261,6 +268,13 @@ th:not(:first-child),td:not(.lb){width:110px;}
     <span class="w">⚠ C 案的誠實聲明</span>:那是用 Lucide 模擬 Phosphor 的 duotone
     <b>技法</b>,<b>不是真的 Phosphor 字形</b>。Phosphor 未安裝,我不為了做對照而加相依。
     真要採用,代價是換掉整套 1500+ 圖示並重對所有既有畫面。<br>
+    <br>
+    <br>
+    <b>🔴 E 案(決策方選定 2026-08-08)= B + D 混合</b>:有天然字符的用字符(<code>T ¶ # $ @ ƒx</code>,6/16),
+    其餘用象形 —— 但<b>兩者都吃分組色、同尺寸</b>。<br>
+    這是關鍵:D 單獨看是「兩套系統混用」(§3.3 的舊感來源),
+    而<b>一旦兩者共用同一組分組色與同一個字級,它就不是兩套系統,是同一套系統的兩種字身</b> ——
+    就像一份排版裡同時有數字與文字,沒有人會說那是混用。
     <br>
     <b>D 案是今天研究本身冒出來的</b> —— NocoDB 的型別圖示實測是<b>字符與象形混用</b>
     (<code>T</code> 文字、<code>#</code> 數字是字符,迴紋針 / 信封 / 電話才是象形),

diff --git a/docs/mockups/weyver-v2.html b/docs/mockups/weyver-v2.html
@@ -112,6 +112,11 @@
 
   /* ⚖ 判斷 —— docs/38 §2 量到各家 0–8px 無共識,取中位偏小 */
   --r-chip:3px;--r-ctl:4px;--r-box:6px;
+
+  /* 🔴 類別色 c1–c8(取自 tokens.css,統一去飽和 + 一致明度)。
+     E 案「B+D 混合」用它給**型別分組**上色 —— 顏色回答「這是哪一類欄位」,
+     不是每個圖示各自一色。 */
+  --c1:#1f5f9e;--c3:#6b46a8;--c4:#8f3a76;--c5:#0f6b6b;--c6:#1a6a86;
 }
 *,*::before,*::after{box-sizing:border-box;margin:0;padding:0;}
 html,body{height:100%;}
@@ -883,8 +888,21 @@ a:hover{text-decoration:underline;}
 .fd-row{display:flex;align-items:center;gap:8px;height:29px;padding:0 7px;border-radius:var(--r-ctl);
   font-size:12.5px;color:var(--ink-2);cursor:grab;}
 .fd-row:hover{background:var(--paper-3);}
-.fd-row .ty{width:16px;height:16px;}
-.fd-row .ty svg{width:10px;height:10px;}
+/* 🔴 E 案(2026-08-08 裁定)= B 分組上色 + D 字符化。
+   有天然字符的用字符(T ¶ # $ @ ƒx,6/16),其餘用象形 ——
+   **但兩者都吃分組色、同尺寸**。
+   這一點是關鍵:D 單獨看是「兩套系統混用」(§3.3 的舊感來源),
+   而一旦共用同一組分組色與同一個字級,它就不是兩套系統,
+   **是同一套系統的兩種字身** —— 就像一份排版裡同時有數字與文字。
+   ⚠ 去掉方框 chip:方框在 14px 下和字符打架(字符本來就有自己的字身)。
+   🔴 **字符化有前提條件,而且是實測出來的**:字體要有那個字符,**且小尺寸下可讀**。
+   `№`(自動編號)在 13.5px 的 IBM Plex Mono 下**糊成一塊不可讀** —— 放大截圖才看見,
+   已改回象形(`list-ordered`,語意上也更貼切:自動編號 = 有序序列)。
+   最終字符 6 個:T ¶ # $ @ ƒx。 */
+.fd-row .ic{width:18px;height:18px;display:inline-flex;align-items:center;justify-content:center;
+  flex-shrink:0;border:0;background:none;}
+.fd-row .ic svg{width:14px;height:14px;}
+.fd-row .ic.gl{font-family:'IBM Plex Mono',monospace;font-size:13.5px;font-weight:600;line-height:1;}
 .fd-row.def{color:var(--ink);font-weight:600;}
 .fd-pal .hint{margin-top:10px;padding:8px 7px;border-top:1px solid var(--line-2);
   font-size:11px;line-height:1.7;color:var(--ink-4);}
@@ -1895,22 +1913,26 @@ a:hover{text-decoration:underline;}
              不做搜尋、不做「最近使用」—— 位置固定,肌肉記憶才建立得起來。 -->
         <div class="fd-pal">
           <div class="g">基本</div>
-          <div class="fd-row def"><span class="ty"><svg viewBox="0 0 24 24"><path d="M4 7V4h16v3M9 20h6M12 4v16"/></svg></span>單行文字</div>
-          <div class="fd-row"><span class="ty"><svg viewBox="0 0 24 24"><path d="M4 7V4h16v3M9 20h6M12 4v16"/></svg></span>多行文字</div>
-          <div class="fd-row"><span class="ty"><svg viewBox="0 0 24 24"><rect width="18" height="18" x="3" y="4" rx="2"/><path d="M3 10h18M8 2v4M16 2v4"/></svg></span>日期</div>
+          <div class="fd-row def"><span class="ic gl" style="color:var(--c1)">T</span>單行文字</div>
+          <div class="fd-row"><span class="ic gl" style="color:var(--c1)">¶</span>多行文字</div>
+          <div class="fd-row"><span class="ic" style="color:var(--c1)"><svg viewBox="0 0 24 24" fill="none" stroke="currentColor" stroke-width="2" stroke-linecap="round" stroke-linejoin="round"><path d="M8 2v4"/><path d="M16 2v4"/><rect width="18" height="18" x="3" y="4" rx="2"/><path d="M3 10h18"/></svg></span>日期</div>
           <div class="g">數值</div>
-          <div class="fd-row"><span class="ty"><svg viewBox="0 0 24 24"><path d="M4 9h16M4 15h16M10 3 8 21M16 3l-2 18"/></svg></span>數字</div>
-          <div class="fd-row"><span class="ty"><svg viewBox="0 0 24 24"><path d="M12 2v20M17 5H9.5a3.5 3.5 0 0 0 0 7h5a3.5 3.5 0 0 1 0 7H6"/></svg></span>金額</div>
+          <div class="fd-row"><span class="ic gl" style="color:var(--c5)">#</span>數字</div>
+          <div class="fd-row"><span class="ic gl" style="color:var(--c5)">$</span>金額</div>
+          <div class="fd-row"><span class="ic" style="color:var(--c5)"><svg viewBox="0 0 24 24" fill="none" stroke="currentColor" stroke-width="2" stroke-linecap="round" stroke-linejoin="round"><path d="M10 12h11"/><path d="M10 18h11"/><path d="M10 6h11"/><path d="M4 10h2"/><path d="M4 6h1v4"/><path d="M6 18H4c0-1 2-2 2-3s-1-1.5-2-1"/></svg></span>自動編號</div>
           <div class="g">選擇</div>
-          <div class="fd-row"><span class="ty"><svg viewBox="0 0 24 24"><rect width="18" height="14" x="3" y="5" rx="2"/><path d="m8 11 4 4 4-4"/></svg></span>單選</div>
-          <div class="fd-row"><span class="ty"><svg viewBox="0 0 24 24"><rect width="18" height="14" x="3" y="5" rx="2"/><path d="m8 11 4 4 4-4"/></svg></span>多選</div>
-          <div class="fd-row"><span class="ty"><svg viewBox="0 0 24 24"><rect width="18" height="18" x="3" y="3" rx="3"/><path d="m8 12 3 3 5-6"/></svg></span>核取</div>
+          <div class="fd-row"><span class="ic" style="color:var(--c3)"><svg viewBox="0 0 24 24" fill="none" stroke="currentColor" stroke-width="2" stroke-linecap="round" stroke-linejoin="round"><circle cx="12" cy="12" r="10"/><path d="m16 10-4 4-4-4"/></svg></span>單選</div>
+          <div class="fd-row"><span class="ic" style="color:var(--c3)"><svg viewBox="0 0 24 24" fill="none" stroke="currentColor" stroke-width="2" stroke-linecap="round" stroke-linejoin="round"><path d="m3 17 2 2 4-4"/><path d="m3 7 2 2 4-4"/><path d="M13 6h8"/><path d="M13 12h8"/><path d="M13 18h8"/></svg></span>多選</div>
+          <div class="fd-row"><span class="ic" style="color:var(--c3)"><svg viewBox="0 0 24 24" fill="none" stroke="currentColor" stroke-width="2" stroke-linecap="round" stroke-linejoin="round"><rect width="18" height="18" x="3" y="3" rx="2"/><path d="m9 12 2 2 4-4"/></svg></span>核取</div>
+          <div class="g">聯絡</div>
+          <div class="fd-row"><span class="ic gl" style="color:var(--c6)">@</span>Email</div>
+          <div class="fd-row"><span class="ic" style="color:var(--c6)"><svg viewBox="0 0 24 24" fill="none" stroke="currentColor" stroke-width="2" stroke-linecap="round" stroke-linejoin="round"><path d="M22 16.92v3a2 2 0 0 1-2.18 2 19.79 19.79 0 0 1-8.63-3.07 19.5 19.5 0 0 1-6-6 19.79 19.79 0 0 1-3.07-8.67A2 2 0 0 1 4.11 2h3a2 2 0 0 1 2 1.72 12.84 12.84 0 0 0 .7 2.81 2 2 0 0 1-.45 2.11L8.09 9.91a16 16 0 0 0 6 6l1.27-1.27a2 2 0 0 1 2.11-.45 12.84 12.84 0 0 0 2.81.7A2 2 0 0 1 22 16.92z"/></svg></span>電話</div>
           <div class="g">關聯與計算</div>
-          <div class="fd-row"><span class="ty rel"><svg viewBox="0 0 24 24"><path d="M10 13a5 5 0 0 0 7 0l3-3a5 5 0 0 0-7-7l-1 1"/><path d="M14 11a5 5 0 0 0-7 0l-3 3a5 5 0 0 0 7 7l1-1"/></svg></span>連結其他表單</div>
-          <div class="fd-row"><span class="ty fx"><svg viewBox="0 0 24 24"><path d="M4 20c2 0 2.3-1.5 2.6-3L8.6 5C8.9 3.5 9.6 3 11 3"/><path d="M5 10h6M13 9l6 8M19 9l-6 8"/></svg></span>公式</div>
+          <div class="fd-row"><span class="ic" style="color:var(--c4)"><svg viewBox="0 0 24 24" fill="none" stroke="currentColor" stroke-width="2" stroke-linecap="round" stroke-linejoin="round"><path d="M9 3H5a2 2 0 0 0-2 2v4m6-6h10a2 2 0 0 1 2 2v4M9 3v18m0 0h10a2 2 0 0 0 2-2V9M9 21H5a2 2 0 0 1-2-2V9m0 0h18"/></svg></span>連結其他表單</div>
+          <div class="fd-row"><span class="ic gl" style="color:var(--c4)">ƒx</span>公式</div>
           <!-- 🔴 子表與欄位型別**共用同一個 PaletteRow**(M3 已落地 2026-08-04)——
                同一層級的東西要長同一個樣子,不是靠兩份 class 字串碰巧一致。 -->
-          <div class="fd-row"><span class="ty"><svg viewBox="0 0 24 24"><rect width="18" height="18" x="3" y="3" rx="2"/><path d="M3 9h18M3 15h18M9 3v18"/></svg></span>子表(明細)</div>
+          <div class="fd-row"><span class="ic" style="color:var(--c4)"><svg viewBox="0 0 24 24" fill="none" stroke="currentColor" stroke-width="2" stroke-linecap="round" stroke-linejoin="round"><rect width="18" height="18" x="3" y="3" rx="2"/><path d="M21 9H3"/><path d="M21 15H3"/></svg></span>子表(明細)</div>
           <div class="hint">
             拖到畫布,或直接在空格子上打字。<br>
             打完按 <kbd>Enter</kbd> 就建欄。

diff --git a/docs/38-前端設計規則.md b/docs/38-前端設計規則.md
@@ -328,9 +328,19 @@ mockup 裡的路徑**是真的 Lucide**(`dollar-sign` 逐字比對相同)。
   且顏色**承載「這是哪一類」**,對應 §6.2 的替代原則。**最符合決策方的訴求**
 - **C Duotone** —— ⚠ 是用 Lucide **模擬** Phosphor 技法,非真字形(Phosphor 未裝,
   不為對照加相依)。🔴 **14px 下它讀起來像彩色小方塊不像雙色圖示 —— 技法沒有撐過這個尺寸**
-- **D 字符化** —— `T ¶ # $ № @ ƒx` 明顯比象形清楚(NocoDB 就是這樣混用)。
-  🔴 但**只有 7/16 個型別有天然字符**,其餘退回灰象形 → 整欄看起來是混的,
+- **D 字符化** —— `T ¶ # $ @ ƒx` 明顯比象形清楚(NocoDB 就是這樣混用)。
+  🔴 但**只有 6/16 個型別有天然字符**,其餘退回灰象形 → 整欄看起來是混的,
   正好落在 §3.3 警告的「混用」上。零成本零相依是它的優點
+- **E · B+D 混合** ✅ **2026-08-08 決策方選定,已套進設計器面板**。
+  有天然字符的用字符,其餘用象形 —— **但兩者都吃分組色、同尺寸**。
+  🔴 **這一點是關鍵**:D 單獨看是「兩套系統混用」(§3.3 的舊感來源),
+  而**一旦共用同一組分組色與同一個字級,它就不是兩套系統,是同一套系統的兩種字身** ——
+  就像一份排版裡同時有數字與文字,沒有人會說那是混用。
+
+🔴 **字符化有前提條件,而且是實測出來的,不是查表**:
+字體要有那個字符,**而且小尺寸下要可讀**。`№`(自動編號)在 13.5px 的 IBM Plex Mono 下
+**糊成一塊不可讀** —— 截圖放大 2.6 倍才看見,已改回象形(`list-ordered`,
+語意上也更貼切:自動編號 = 有序序列)。最終字符 **6 個:`T ¶ # $ @ ƒx`**。
 
 **未涵蓋**|11 個設定頁尚未重新設計。
 
